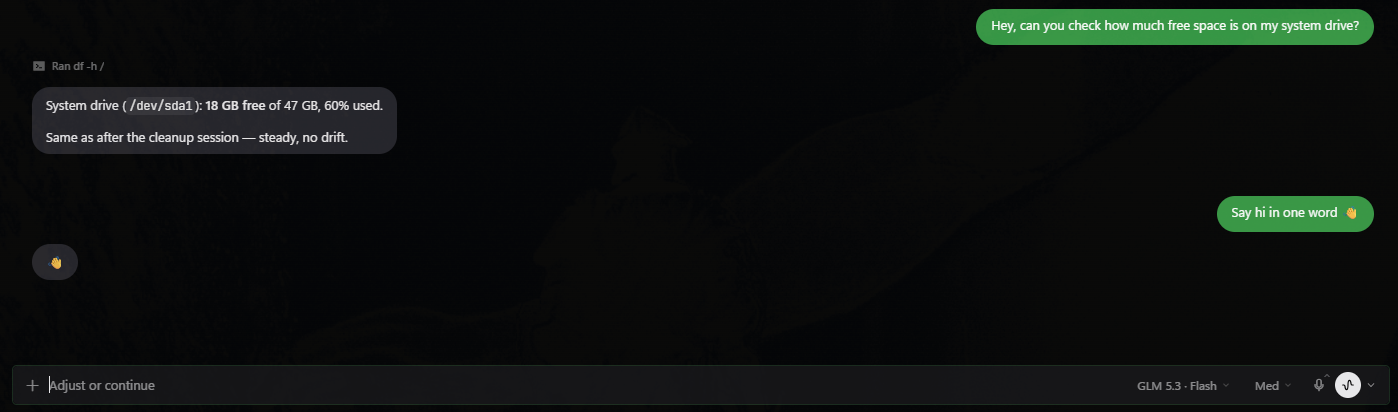
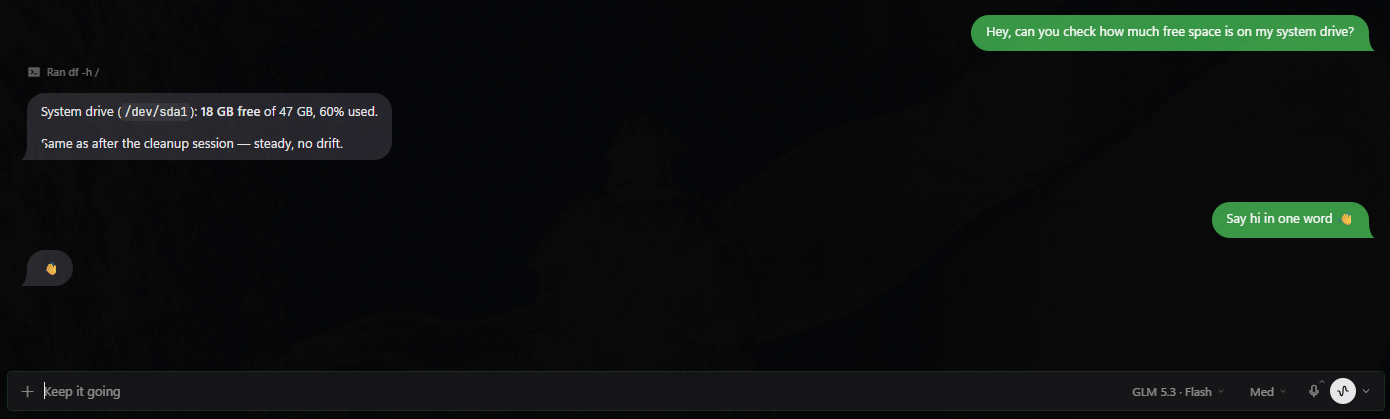
1.1.2: tails sit behind text; README installs from a tag; new screenshots

diff --git a/desktop/plugin.js b/desktop/plugin.js
@@ -10,7 +10,7 @@
 import { THEMES_AREA } from '@hermes/plugin-sdk'
 
 const ID = 'hermes-bubbles'
-const VERSION = '1.1.1'
+const VERSION = '1.1.2'
 
 // System UI stack: SF Pro on macOS, Segoe UI Variable / Segoe UI on Windows.
 // Nothing is bundled or downloaded (SF Pro can't be redistributed).
@@ -169,6 +169,7 @@ function bubbleCSS({ meLight, meDark }) {
    tables) keep Hermes' clip and go without a tail. */
 :is(div, span):has(> .composer-human-message) {
   position: relative;
+  isolation: isolate;
 }
 :is(div, span):has(> .composer-human-message)::after,
 [data-slot='aui_assistant-message-content'] .aui-md.prose:not(.aui-md .aui-md):not(:has([data-slot='code-card'], [data-streamdown='code-block'], .aui-md-table, pre, img))::after {
@@ -180,6 +181,8 @@ function bubbleCSS({ meLight, meDark }) {
   width: 1.5rem;
   height: 1.125rem;
   pointer-events: none;
+  /* Behind the bubble's text; the parent isolates, so it stays above the page. */
+  z-index: -1;
 }
 :is(div, span):has(> .composer-human-message)::after {
   right: -0.375rem;
@@ -189,6 +192,7 @@ function bubbleCSS({ meLight, meDark }) {
 [data-slot='aui_assistant-message-content'] .aui-md.prose:not(.aui-md .aui-md):not(:has([data-slot='code-card'], [data-streamdown='code-block'], .aui-md-table, pre, img)) {
   position: relative;
   overflow: visible;
+  isolation: isolate;
 }
 [data-slot='aui_assistant-message-content'] .aui-md.prose:not(.aui-md .aui-md):not(:has([data-slot='code-card'], [data-streamdown='code-block'], .aui-md-table, pre, img))::after {
   left: -0.375rem;

diff --git a/README.md b/README.md
@@ -2,7 +2,7 @@
 
 Messages-style chat bubbles for [Hermes Desktop](https://hermes-agent.nousresearch.com/), in light and dark.
 
-Your messages sit on the right in a colored bubble that hugs the text. Hermes' replies sit on the left in grey bubbles. Tool activity, approvals and status rows stay outside the bubbles, so long agent turns still read cleanly.
+Your messages sit on the right in a colored bubble that hugs the text, with a tail like in Messages. Hermes' replies sit on the left in grey bubbles. Tool activity, approvals and status rows stay outside the bubbles, so long agent turns still read cleanly.
 
 | Bubbles, light | Bubbles, dark |
 | --- | --- |
@@ -31,8 +31,11 @@ Desktop plugins load from the computer that runs Hermes Desktop, not from the ga
 ```powershell
 $dir = "$env:LOCALAPPDATA\hermes\desktop-plugins\hermes-bubbles"
 New-Item -ItemType Directory -Force $dir | Out-Null
-Invoke-WebRequest https://raw.githubusercontent.com/hutchins79/hermes-bubbles/main/desktop/plugin.js -OutFile "$dir\plugin.js"
+Invoke-WebRequest https://raw.githubusercontent.com/hutchins79/hermes-bubbles/v1.1.2/desktop/plugin.js -OutFile "$dir\plugin.js"
+Select-String -Path "$dir\plugin.js" -Pattern "const VERSION"   # should print 1.1.2
 ```
+
+Run all three lines in the same PowerShell window; `$dir` doesn't carry over to a new one.
 
 This is the default Windows location (`C:\Users\<you>\AppData\Local\hermes`). If you set `HERMES_HOME`, use `$env:HERMES_HOME\desktop-plugins\hermes-bubbles` instead.
 
@@ -41,7 +44,8 @@ This is the default Windows location (`C:\Users\<you>\AppData\Local\hermes`). If
 ```bash
 dir="${HERMES_HOME:-$HOME/.hermes}/desktop-plugins/hermes-bubbles"
 mkdir -p "$dir"
-curl -fsSL https://raw.githubusercontent.com/hutchins79/hermes-bubbles/main/desktop/plugin.js -o "$dir/plugin.js"
+curl -fsSL https://raw.githubusercontent.com/hutchins79/hermes-bubbles/v1.1.2/desktop/plugin.js -o "$dir/plugin.js"
+grep "const VERSION" "$dir/plugin.js"   # should print 1.1.2
 ```
 
 If you set `HERMES_HOME`, it overrides `~/.hermes`.
@@ -63,7 +67,7 @@ hermes plugins enable hermes-bubbles
 
 ## Update or remove
 
-Re-run the install command to update. To remove, switch to another theme first, then delete the `hermes-bubbles` folder from `desktop-plugins` (or run `hermes plugins remove hermes-bubbles`).
+To update, re-run the install command with the newest version tag (see [tags](https://github.com/hutchins79/hermes-bubbles/tags)), then **Reload desktop plugins**. Installing from a tag avoids GitHub's few-minute cache on `main`, which can hand you the previous version right after a release. To remove, switch to another theme first, then delete the `hermes-bubbles` folder from `desktop-plugins` (or run `hermes plugins remove hermes-bubbles`).
 
 ## How it works
 

diff --git a/CHANGELOG.md b/CHANGELOG.md
@@ -1,5 +1,10 @@
 # Changelog
 
+## 1.1.2 — 2026-10-06
+
+- Fix: the reply tail no longer covers the first letter of the last line.
+- README: install from a version tag, with a one-line check of what's installed. Screenshots updated to show tails.
+
 ## 1.1.1 — 2026-10-06
 
 - Fix: bubble tails now cover the whole rounded corner, so there's no notch where the tail meets the bubble.
